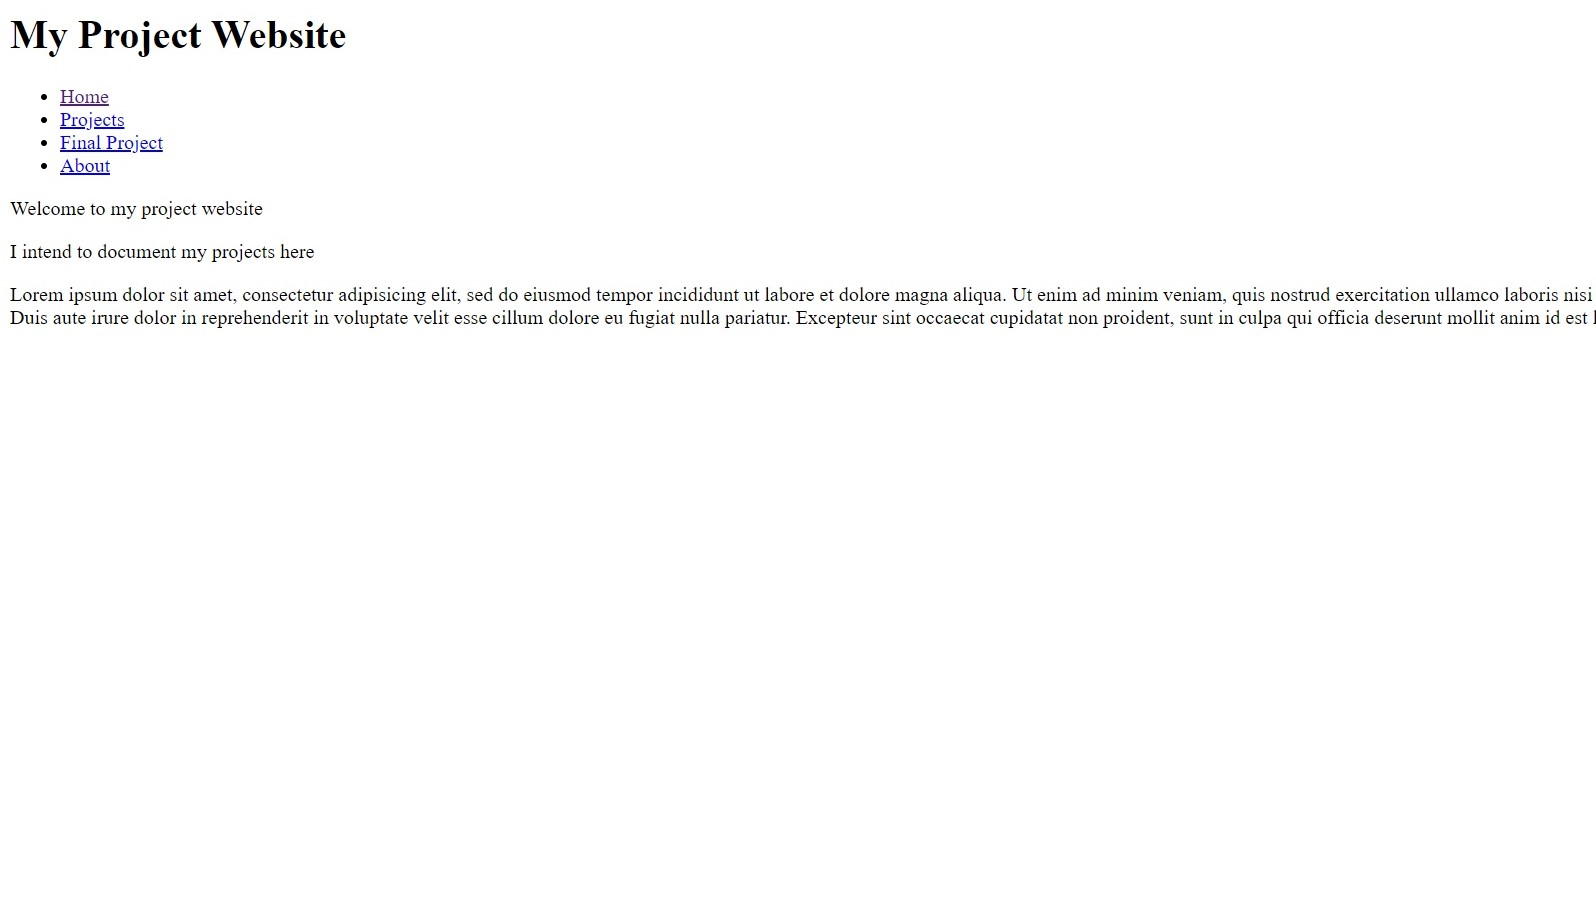
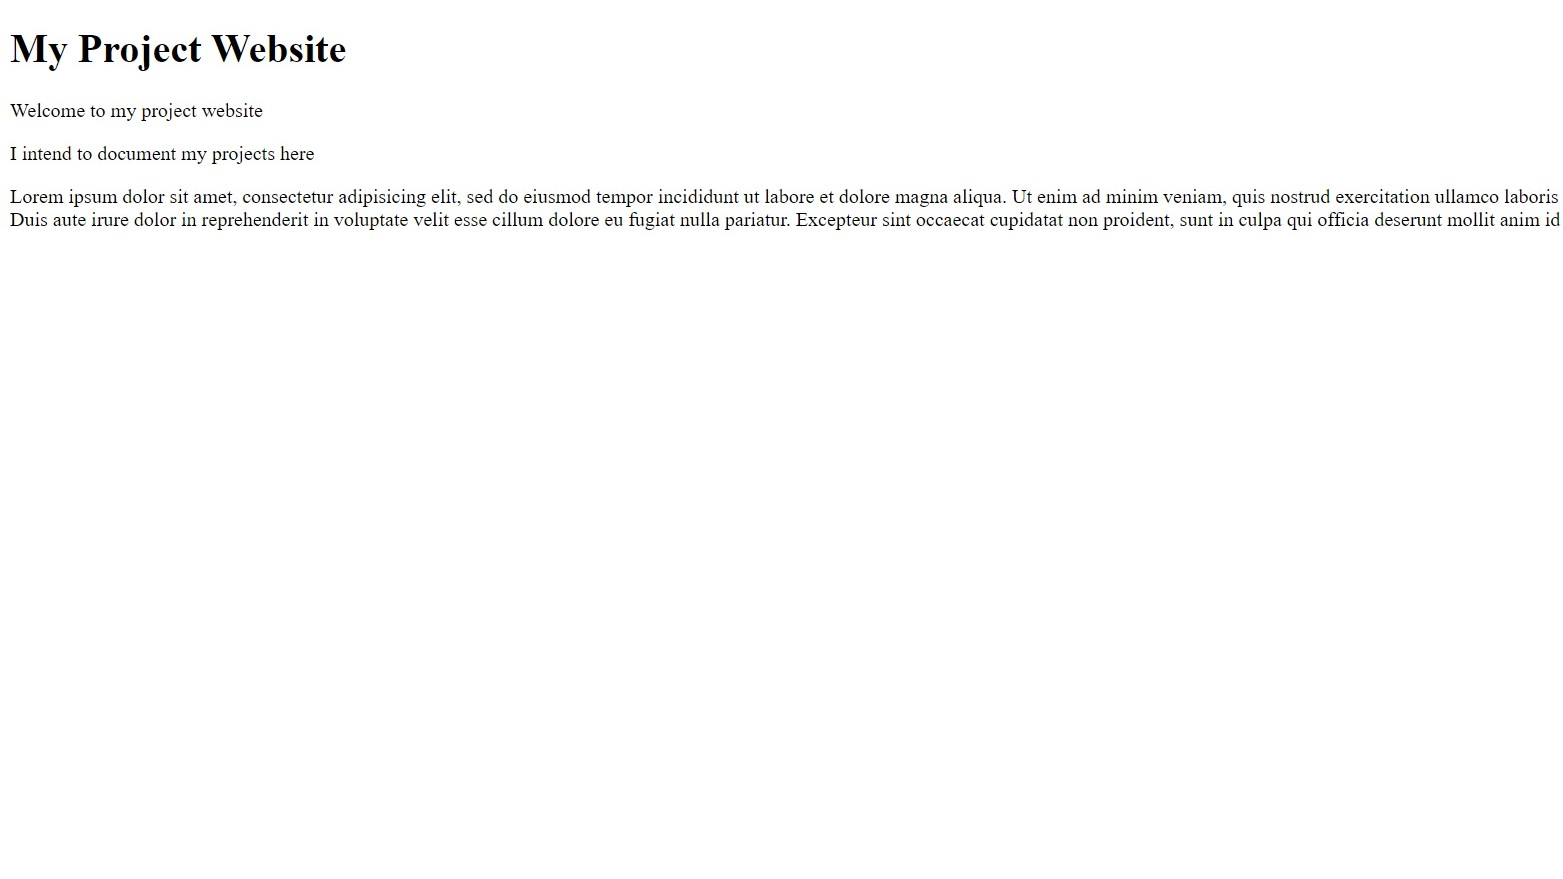
updated images

Changed region(s): [[0.0, 0.0, 1.0, 0.3686]]

diff --git a/css.html b/css.html
@@ -47,7 +47,7 @@ body,h1,h2,h3,h4,h5 {font-family: "Raleway", sans-serif}
         <p>I learnt that HTML is just the content of the site adn that CSS is needed to add a layout to the site, essentially, adding a design to the website. </p>
         <p>I had first learnt that in css, a stylesheet was very important to add designs into the site. This need a separate file with the .css ending. Then I had to specify which area of the .html file had what text colour, what background colour and so on. I first experimented with it that way until the teacher taught us the div function which automatically divided parts of the site so that I can have different designs for them. With that, I started experimenting with the stylesheet to make the best design website I can. </p>
         <p>This was what it looked like before and after I added a stylesheet.</p>
-        <p><img src="images/w1.jpg" style="width:100%" alt="before"></p>
+        <p><img src="images/w4.jpg" style="width:100%" alt="before"></p>
         <p><img src="images/w2.jpg" style="width:100%" alt="after"></p>
         <p>However, after many failed iterations, I eventually decided on using a design already made by w3schools. In the beginning, I had a hard time trying to figure out what does what but eventually, I got it and could start designing my website. The index file or the main page was easy to edit as it was already given in the file, all I had to do was to change what was written there and the images on the site. The stylesheet was also given but I had a really hard time figuring out what does what in the beginning as I had not understood how the stylesheet was being used. I eventually figured it out and could edit the text colours and the site background.</p>
         <p> In my opinion, the hardest part about making the website was the other sites I had to implement into it for extra infomation when it couldn't be fitted into the main site such as "What I learnt" and "My Projects". I had a rough time figuring out how to add in the top menu in small screens so that the navigation bar appears in small screens. I found out later it was due to a missing < /div> after many trial and errors but that also allowed me to add in the animations on opening and closing the sidebar. Honestly, the most annoying part was that I had to copy and paste what I added in one site to the other sites due to how I had made these sites. I couldn't just copy and paste the same site over and over and just change the site name as there was already existing infomation in the other sites that I cannot delete. Thus, I just stuck to the copy and paste method when there is something I need to add to the other sites. </p>
